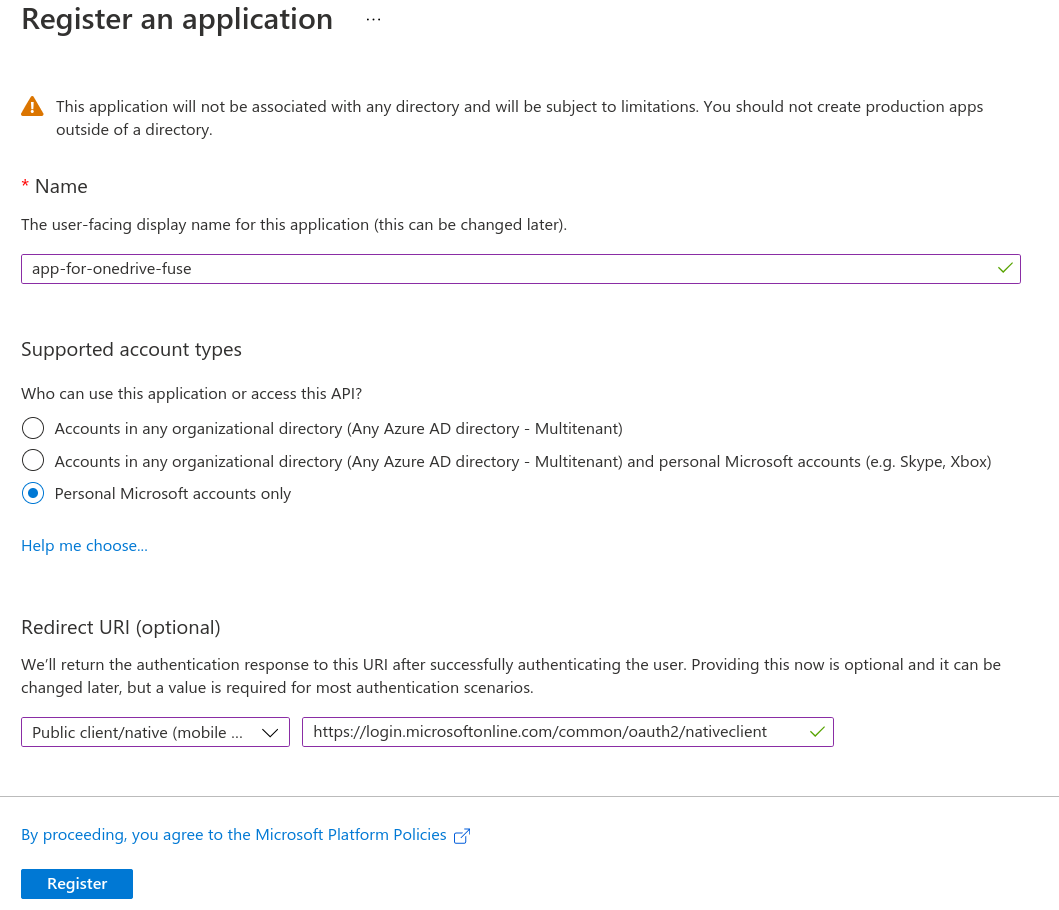
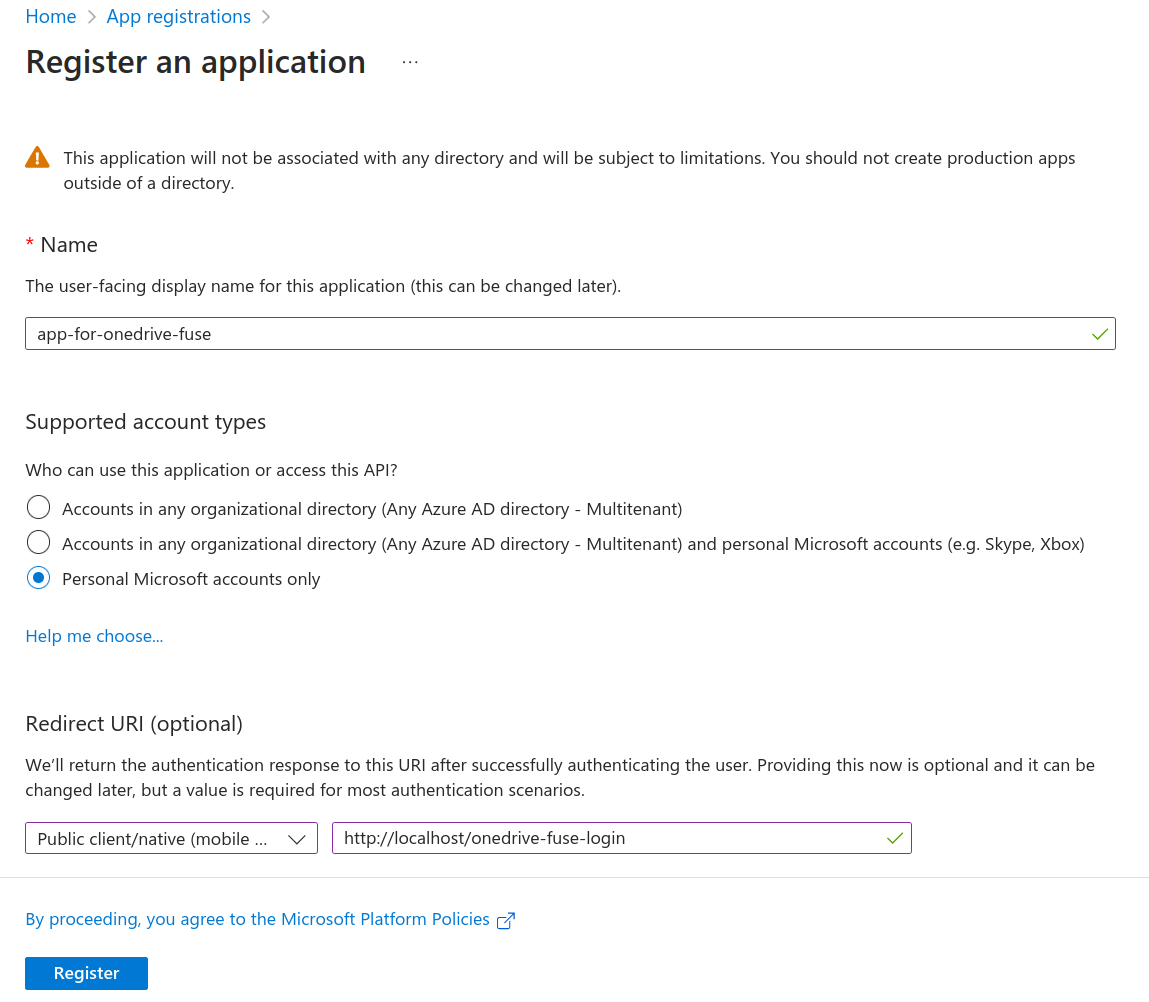
Use localhost callback to pass login code and update docs

diff --git a/src/main.rs b/src/main.rs
@@ -1,9 +1,9 @@
 use crate::login::ManagedOnedrive;
-use anyhow::{Context as _, Result};
+use anyhow::{anyhow, Context as _, Result};
 use clap::{Args, Parser};
 use fuser::MountOption;
-use onedrive_api::{Auth, Permission};
-use std::{io, path::PathBuf};
+use onedrive_api::{Auth, Permission, TokenResponse};
+use std::path::PathBuf;
 use url::Url;
 
 mod config;
@@ -30,7 +30,8 @@ async fn main() -> Result<()> {
     }
 }
 
-const REDIRECT_URI: &str = "https://login.microsoftonline.com/common/oauth2/nativeclient";
+const REDIRECT_URI: &str = "http://localhost:0/onedrive-fuse-login";
+const HTTP_SERVER_PATH: &str = "/onedrive-fuse-login";
 
 async fn main_login(opt: OptLogin) -> Result<()> {
     let credential_path = opt
@@ -38,22 +39,27 @@ async fn main_login(opt: OptLogin) -> Result<()> {
         .or_else(paths::default_credential_path)
         .context("No credential file provided to save to")?;
 
-    let auth = Auth::new(
-        opt.client_id.clone(),
-        Permission::new_read()
-            .write(opt.read_write)
-            .offline_access(true),
-        REDIRECT_URI.to_owned(),
-    );
+    let perm = if opt.read_write {
+        "READONLY"
+    } else {
+        "READWRITE"
+    };
+    eprintln!("You are logining for {perm} permission.");
 
-    let code = match opt.code {
-        Some(code) => code,
-        None => ask_for_code(&auth.code_auth_url())?,
+    let perm = Permission::new_read()
+        .write(opt.read_write)
+        .offline_access(true);
+
+    let tokens = if let Some(code) = &opt.code {
+        eprintln!("Logining...");
+        let auth = Auth::new(opt.client_id.clone(), perm, REDIRECT_URI.to_owned());
+        auth.login_with_code(code, None).await?
+    } else {
+        let client_id = opt.client_id.clone();
+        tokio::task::spawn_blocking(|| login_with_http_server(client_id, perm)).await??
     };
 
-    eprintln!("Logining...");
-    let token_resp = auth.login_with_code(&code, None).await?;
-    let refresh_token = token_resp.refresh_token.expect("Missing refresh token");
+    let refresh_token = tokens.refresh_token.expect("Missing refresh token");
 
     eprintln!("Login successfully, saving credential...");
 
@@ -69,40 +75,83 @@ async fn main_login(opt: OptLogin) -> Result<()> {
     Ok(())
 }
 
-fn ask_for_code(auth_url: &str) -> Result<String> {
-    let _ = open::that(auth_url);
+fn login_with_http_server(client_id: String, perm: Permission) -> Result<TokenResponse> {
+    use http::StatusCode;
+    use std::io::Cursor;
+    use tiny_http::{Header, Response, Server};
+
+    let server = Server::http("localhost:0")
+        .map_err(|err| anyhow!("Failed to listen on localhost: {err}"))?;
+    let listen_addr = server.server_addr().to_ip().expect("Listen on IP address");
+    eprintln!("Listening at {listen_addr} for callback");
+
+    // NB. The host must be exactly `localhost`, which is special to Microsoft API.
+    let redirect_uri = format!(
+        "http://localhost:{}{}",
+        listen_addr.port(),
+        HTTP_SERVER_PATH
+    );
+    let auth = Auth::new(client_id, perm, redirect_uri);
+    let auth_url = auth.code_auth_url();
+
+    let _ = open::that(&auth_url);
     eprintln!(
         "\
-Your browser should be opened. If not, please manually open the link below:
-{}
+Please login to your OneDrive (Microsoft) Account in browser.
+Your browser should be opened with the login page. If not, please manually open the link below:
 
-Login to your OneDrive (Microsoft) Account in the link, it will jump to a blank page
-whose URL contains `code=`.
-",
-        auth_url
+{auth_url}
+
+"
     );
 
+    let base_url = Url::parse("http://localhost/").unwrap();
     loop {
-        eprintln!(
-            "Please copy and paste the FULL URL of the blank page here and then press ENTER:"
-        );
-        let mut line = String::new();
-        io::stdin().read_line(&mut line)?;
-        let ret = (|| -> Option<String> {
-            let url = line.trim().parse::<Url>().ok()?;
-            let v = url
-                .query_pairs()
-                .find_map(|(k, v)| (k == "code" && !v.is_empty()).then_some(v))?;
-            // Sanity check.
-            if v.is_empty() {
-                return None;
-            }
-            Some(v.into_owned())
-        })();
-        if let Some(code) = ret {
-            return Ok(code);
+        let req = server.recv()?;
+
+        // Unrecognized path. May be unrelated requests from the browser.
+        if !req.url().starts_with(HTTP_SERVER_PATH) {
+            let _ = req.respond(Response::empty(StatusCode::NOT_FOUND.as_u16()));
+            continue;
         }
-        eprintln!("Invalid URL.")
+
+        let ret = (|| -> Result<_> {
+            let url = base_url.join(req.url()).context("Invalid URL")?;
+            let code = url
+                .query_pairs()
+                .find_map(|(key, value)| (key == "code" && !value.is_empty()).then_some(value))
+                .context("Missing code")?;
+            eprintln!("Logining...");
+            let tokens =
+                tokio::runtime::Handle::current().block_on(auth.login_with_code(&code, None))?;
+            Ok(tokens)
+        })();
+        let headers =
+            vec![Header::from_bytes("content-type", "text/plain; charset=utf-8").unwrap()];
+        let (status, ret_str) = match &ret {
+            Ok(_) => (
+                StatusCode::OK,
+                "Login successfully. You can close this page now.".to_owned(),
+            ),
+            Err(err) => {
+                println!("{err:#}");
+                (
+                    StatusCode::BAD_REQUEST,
+                    format!("Login failed. Please close this page and try again.\n{err:#}"),
+                )
+            }
+        };
+        let _ = req.respond(Response::new(
+            status.as_u16().into(),
+            headers,
+            Cursor::new(ret_str),
+            None,
+            None,
+        ));
+
+        if let Ok(ret) = ret {
+            return Ok(ret);
+        }
     }
 }
 
@@ -200,9 +249,14 @@ struct OptLogin {
     #[arg(short = 'w', long)]
     read_write: bool,
 
+    /// Whether to disable listening on `localhost` for login callback. This will require manually
+    /// type the redirected URI to the terminal after login in browser.
+    /// Only use this when you are unable to interact with browser on the same compuler (host).
+    #[arg(long)]
+    no_listen: bool,
+
     /// The login code for Code-Auth.
-    /// If not provided, the program will interactively open your browser and
-    /// ask for the redirected URL containing it.
+    /// If not provided, the program will do interactive login.
     code: Option<String>,
 }
 

diff --git a/doc/register_app.md b/doc/register_app.md
@@ -5,17 +5,28 @@ and use it in `onedrive-fuse`.
 
 Steps:
 
-1. Login ANY of your Microsoft accounts (it doesn't need to be the account of your OneDrive),
-   goto [`App Registritions` page][app_registrition]
+1. Login ANY of your Microsoft accounts (it doesn't need to be the account of
+   your OneDrive), goto [`App Registritions` page][app_registrition]
    and click the button `New registration` on the top-left.
 
    ![App Registrations page](./img/app_registrations.png)
 
 2. Fill the form.
    - `Name` can be randomly chosen.
-   - `Supported account types` should be `Personal Microsoft accounts only`
-   - `Redirect URI` should be `Public client/native (mobile & desktop)` (chosen from the left list),
-     and URL `https://login.microsoftonline.com/common/oauth2/nativeclient` (the right input box).
+
+   - `Supported account types` should be `Personal Microsoft accounts only`.
+
+     I'm not sure whether other account types are supported since I have no
+     organizational accounts for testing.
+
+   - `Redirect URI` should be `Public client/native (mobile & desktop)` (chosen
+     from the left list),
+     and URL `http://localhost/onedrive-fuse-login` (the right input box).
+
+     onedrive-fuse supports local login only. It will listen on a random port
+     of the same computer during login, and successful login in browser will
+     automatically callback to onedrive-fuse with the token.
+
    - Click `Register`
 
    ![Register form](./img/register_form.png)
@@ -28,5 +39,8 @@ Steps:
 
    This Client ID is not really a secret, since it just identify the application.
    You still need further login to your OneDrive account to get the access token.
+
+4. Now you can follow [README](../README.md) to login to you OneDrive account
+   with the registered Client ID.
 
 [app_registrition]: https://portal.azure.com/#blade/Microsoft_AAD_RegisteredApps/ApplicationsListBlade

diff --git a/README.md b/README.md
@@ -39,10 +39,11 @@ Mount [Microsoft OneDrive][onedrive] storage as [FUSE] filesystem.
     $ onedrive-fuse login --read-write --client-id <paste-your-client-id-here>
     ```
 
-    This will prompt a browser window to ask you to login your Microsoft account for OneDrive.
-    After a successful login, the page will redirect your to a blank page
-    whose URL contains `nativeclient?code=`.
-    Copy the **FULL** URL, and paste it to the terminal and press enter to login.
+    This will prompt a browser window to ask you to login your Microsoft
+    account for OneDrive. After a successful login, the web page will pass the
+    result token back to onedrive-fuse automatically, and prints
+    `Login successfully.` You can close the web page now, and the command
+    running above should also have exited successfully.
 
     Your access token will be saved under [XDG config directory][xdg-dirs],
     which is by default `~/.config/onedrive-fuse/credential.json`.
